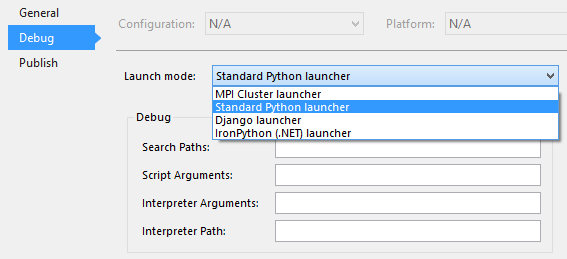
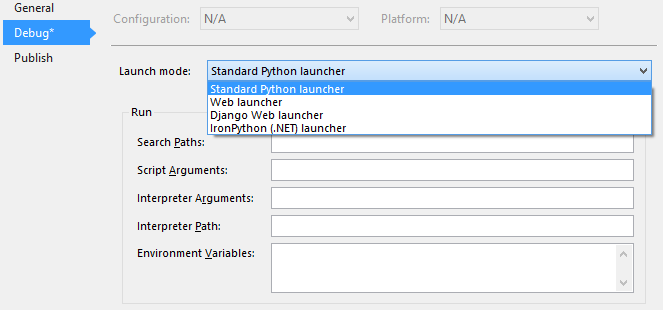
Add docs for environment variables in project properties, and update existing screenshot for launcher dropdown.

diff --git a/Debugging.md b/Debugging.md
@@ -117,9 +117,9 @@ The active environment is shown in bold in Solution Explorer. This environment c
 
 To run your program with a different environment, you should add it to your project and make it active. This will ensure that the code completions and error messages given in the editor are valid for the version of Python you intend to use.
 
-### Command-line Arguments
+### Command-line Arguments and Environment Variables
 
-To launch your script with certain command-line arguments, provide them as a project property in the Debug section.
+To launch your script with certain command-line arguments or environment variables, provide them as a project property in the Debug section.
 
 Right-click on your project and choose Properties, then select the Debug tab. Here, you can provide the following options (for the standard launcher; see [Launch Modes](#launch-modes) for information about other launchers):
 
@@ -127,6 +127,9 @@ Right-click on your project and choose Properties, then select the Debug tab. He
 * Script Arguments
 * Interpreter Arguments
 * Interpreter Path
+* Environment Variables
+
+![Project Properties - Debug](Images/ProjectPropertiesDebug.png)
 
 The Search Paths setting matches what is shown in Solution Explorer. While you can modify this value here, it is simpler to use Solution Explorer, which provides a folder browser and will automatically convert paths to relative form.
 
@@ -135,6 +138,8 @@ Script Arguments are added to the command used to launch your script, appearing 
 Interpreter Arguments are arguments for the interpreter itself, and appear before the name of your script. Common arguments here are `-W ...` to control warnings, `-O` to slightly optimize your program, and `-u` to use unbuffered IO. IronPython users are likely to use this field to pass `-X` options, such as `-X:Frames` or `-X:MTA`.
 
 The Interpreter Path setting will override the path associated with the current environment. This may be useful for launching your script with a non-standard interpreter.
+
+Environment Variables allows you to specify any additional environment variables that you want to be set for your script. It is a multiline textbox, and every line should be of the form `NAME=VALUE`. This setting is applied last, on top of any existing global environment variables, and after `PYTHONPATH` is set according to the Search Paths setting, and so it can be used to manually override any of those.
 
 ### Launch Modes
 
